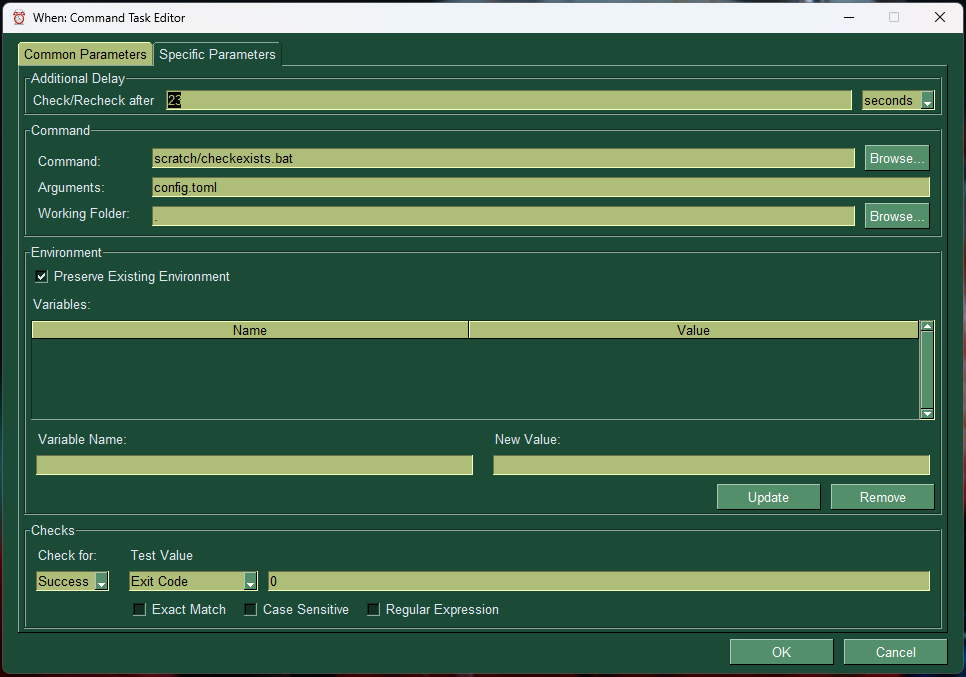
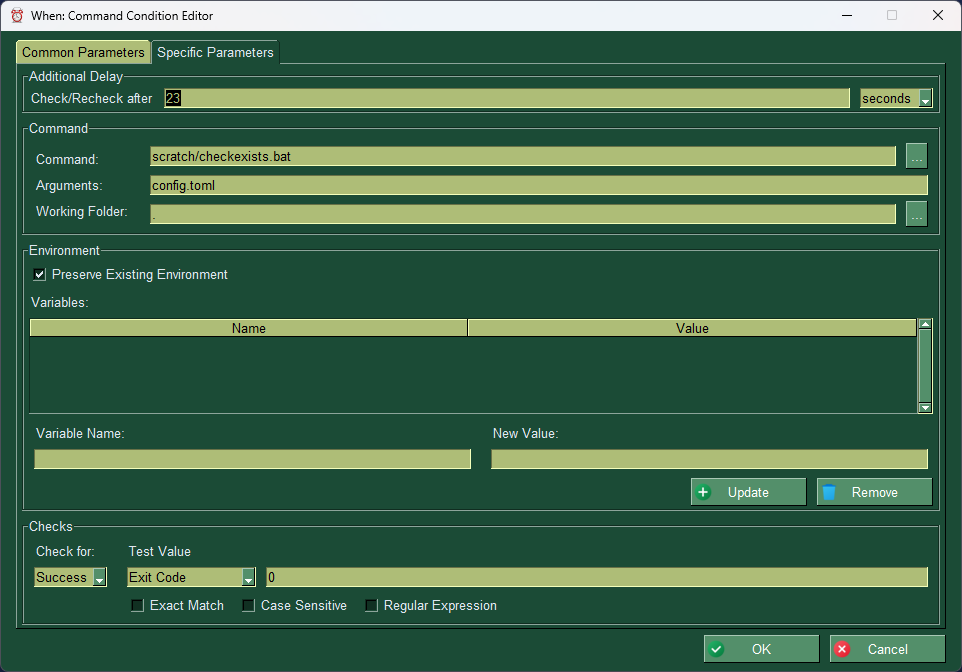
Update documentation
New doc images to reflect UI improvements, update  README, fix a window title

Changed region(s): [[0.0, 0.0, 1.0, 1.0]]

diff --git a/lib/i18n/strings_base.py b/lib/i18n/strings_base.py
@@ -217,7 +217,7 @@ UI_TITLE_NEWITEM = "%s: Select New Item" % UI_APP
 UI_TITLE_COMMANDTASK = "%s: Command Task Editor" % UI_APP
 UI_TITLE_LUATASK = "%s: Lua Script Task Editor" % UI_APP
 
-UI_TITLE_COMMANDCOND = "%s: Command Task Editor" % UI_APP
+UI_TITLE_COMMANDCOND = "%s: Command Condition Editor" % UI_APP
 UI_TITLE_LUACOND = "%s: Lua Script Condition Editor" % UI_APP
 UI_TITLE_INTERVALCOND = "%s: Interval Condition Editor" % UI_APP
 UI_TITLE_IDLECOND = "%s: Idle Session Condition Editor" % UI_APP

diff --git a/README.md b/README.md
@@ -12,7 +12,7 @@ Most of the interface of this release of **When** tries to be similar to the old
 
 The documenttion is still underway, and the features are reduced compared to the old version of **When**. However the design of this new version is modular, and the design of **whenever** allows for the maximum flexibility in term of definitions of tasks, conditions, and events, so that new types of _usable_ events can be defined along with the forms to edit them easily and write a well-formed configuration file.
 
-For the moment this version of **When** is not much more than a proof-of-concept. Still, the application may show a lot of problems due to lack of exception handling, absence of checks on correctness of values entered via the UI or interdependency of items (that is, tasks referenced in conditions and conditions referenced in events). The UI itself is far from being really usable: reactions to common gestures such as double clicks are not respected and sometimes inconsistently handled, and some usual graphic elements (pop-up boxes, buttons, and so on) are still incomplete and not consistent with the rest of the application. Graphic widgets, which are sometimes helpful within the forms, are for now either primitive or absent.
+For the moment this version of **When** is not much more than a proof-of-concept. Still, the application may show a lot of problems due to lack of targeted exception handling, genericity of checks on correctness of values entered via the UI or interdependency of items (that is, tasks referenced in conditions and conditions referenced in events). The UI itself is far from being really usable: reactions to common gestures such as double clicks are not respected and sometimes inconsistently handled, and some usual graphic elements (pop-up boxes, buttons, and so on) are still incomplete and not consistent with the rest of the application. Graphic widgets, which are sometimes helpful within the forms, are for now either primitive or absent.
 
 
 ## Usage
